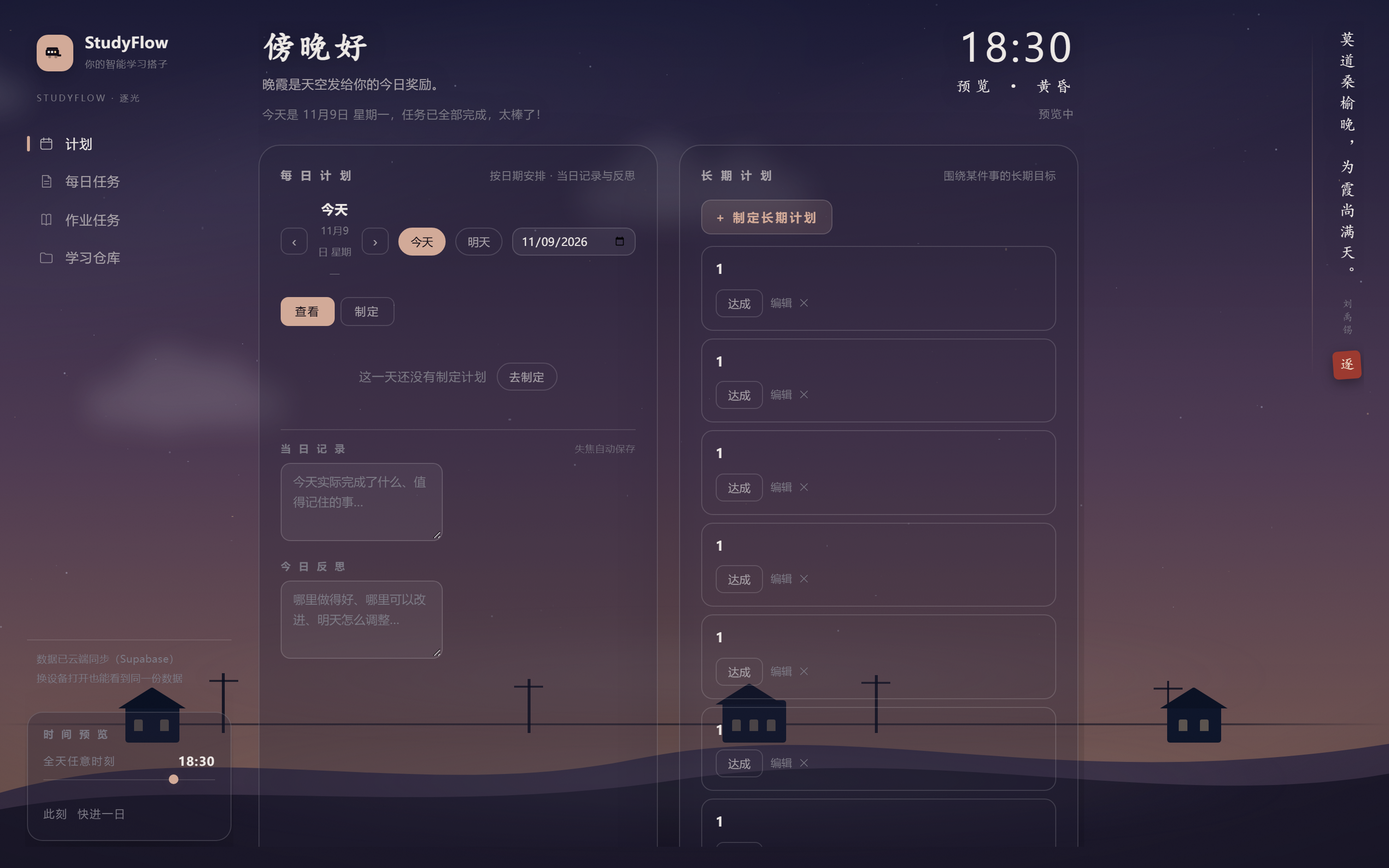
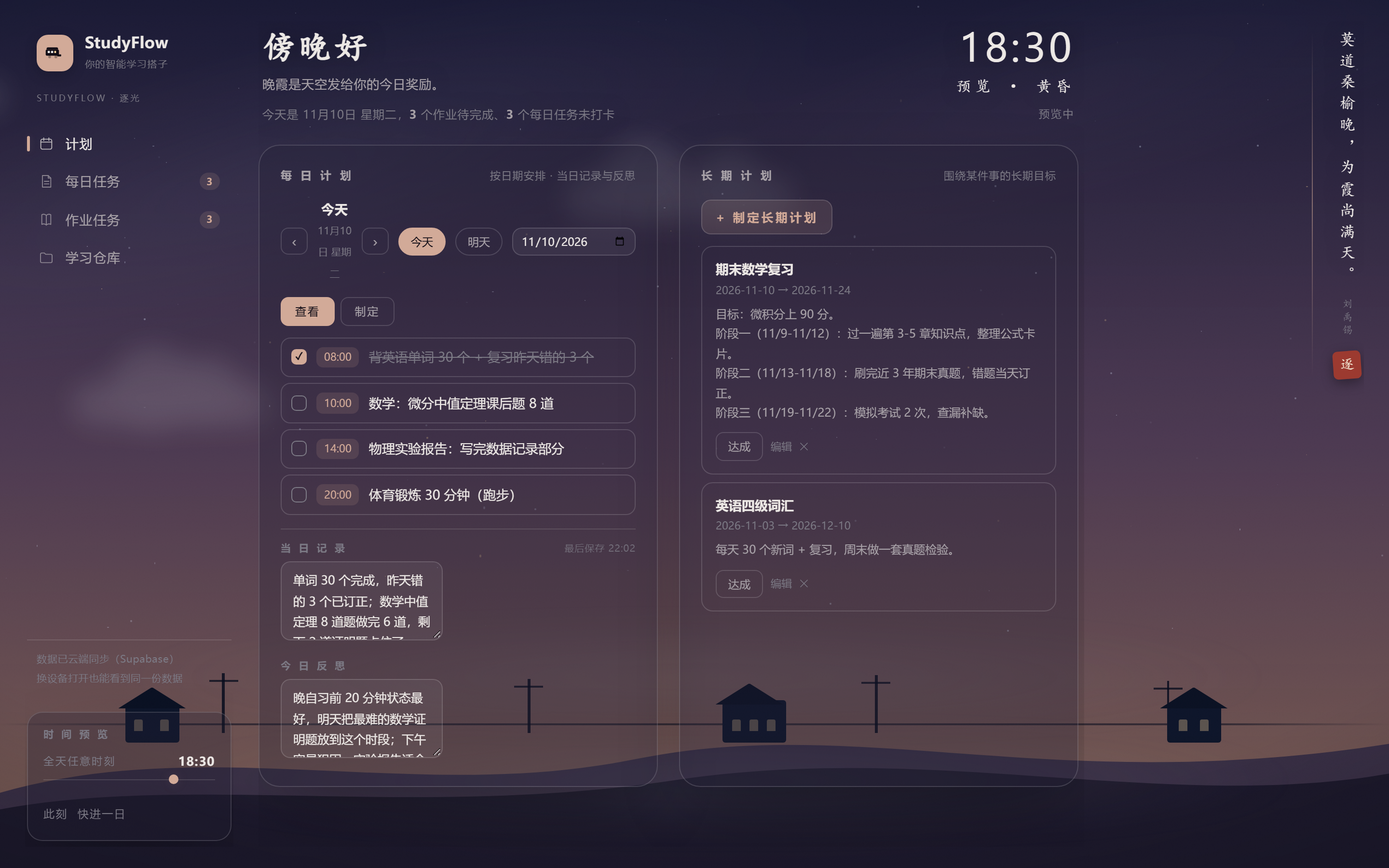
docs: v1.2 制定/查看双模式 + 当日记录反思开发日志与截图（修正被污染的初版截图）

diff --git a/docs/DEVLOG.md b/docs/DEVLOG.md
@@ -19,6 +19,7 @@
 | v0.10 | 计划页重做：每日详细计划 + 长期计划 | [计划页](screenshots/v0.10-plan.png) |
 | v1.0 | 电影感换肤：逐光场景层（调色板插值/天体轨道/列车）+ 右栏统计 | [夜晚](screenshots/v1.0-night.png) · [黎明](screenshots/v1.0-dawn.png) · [白昼](screenshots/v1.0-day.png) · [黄昏](screenshots/v1.0-dusk.png) |
 | v1.1 | 右栏精简：去掉今日打卡与近 7 天记录，只留时段诗句与印章 | [计划页](screenshots/v1.1-plan.png) |
+| v1.2 | 计划页分制定/查看双模式；每日计划按日期绑定当日记录与反思 | [查看模式](screenshots/v1.2-plan.png) · [制定模式](screenshots/v1.2-plan-edit.png) |
 
 ---
 
@@ -226,6 +227,25 @@
 - 同步清理 globals.css 中这些模块独占的样式（stat/sdot/wk/bar 系列与 .hr，共 20 条规则）
 
 ![v1.1 计划页](screenshots/v1.1-plan.png)
+
+---
+
+## v1.2 — 制定与查看分离 · 当日记录与反思
+
+**动机**：计划页的"写计划"和"看计划"挤在同一界面，输入框永远占着视觉重心；而且每天执行完计划后，缺一个按日期复盘的地方。
+
+**改动**：
+- **制定/查看双模式**：每日计划卡片内新增「查看 / 制定」切换，默认查看模式——干净的计划呈现（可勾选完成），不摆输入框；切到「制定」才出现添加行与删除按钮。空日期显示「这一天还没有制定计划 → 去制定」引导
+- **当日记录 + 今日反思**：查看模式下每个日期自带两栏书写区（新表 `day_notes`，与每日计划同日期键），失焦自动保存并显示保存时间；清空内容即删除该日记录；切换日期自动跟随
+- **长期计划表单折叠**：默认只呈现计划卡片，点「+ 制定长期计划」才展开表单，添加/收起后自动收回
+- **修复**：`DayNoteEditor` 草稿用 `useState` 初始化后不随外部更新（云端同步到达时会显示过期内容），补 `useEffect` 按 `note.updatedAt` 重置；首迁判空条件纳入 `dayNotes`
+- **容错**：`day_notes` 是新增表，未重跑建表 SQL 时拉取/推送仅告警不中断（其余表同步不受影响）
+
+**注意**：本版本需要**再跑一次 `docs/supabase-setup.sql`**（幂等，新增 `day_notes` 表与策略），否则记录与反思只保存在本地。
+
+| 查看模式（默认） | 制定模式 |
+|---|---|
+| ![v1.2 查看模式](screenshots/v1.2-plan.png) | ![v1.2 制定模式](screenshots/v1.2-plan-edit.png) |
 
 ---
 

diff --git a/README.md b/README.md
@@ -12,7 +12,8 @@
 
 ## ✨ 功能
 
-- **计划制定**：📅 每日计划——按日期写下详细安排（可带时段、完成勾选，今天/明天/任意天自由切换）；🎯 长期计划——围绕某件事的目标，标题+起止日期+阶段内容，可标记达成
+- **计划制定**：📅 每日计划——按日期写下详细安排（可带时段、完成勾选，今天/明天/任意天自由切换）；🎯 长期计划——围绕某件事的目标，标题+起止日期+阶段内容，可标记达成；制定/查看双模式分离，默认干净呈现
+- **当日记录与反思**：每个日期的计划下方可写当日记录 + 今日反思，失焦自动保存，按日期留痕可回溯
 - **任务分类**：🔁 每日任务（固定每天做，一次添加天天打卡）＋ 📝 作业任务（按截止日期管理），侧边栏各自独立成页
 - **每日打卡（与任务同页）**：今天做没做都要记录——没做必填反思，完成也能写心得 + **自填用时**（分钟）；14 天日期记录表 + 连续打卡天数
 - **任务附件**：作业内容（文本）、提交网址、文件（PDF 等）直接挂在任务上，云端存储随取随用
@@ -61,6 +62,7 @@ git checkout v0.8   # 任务分类 + 打卡反馈 + 任务附件
 git checkout v0.9   # 计划汇总专栏（已被 v0.10 取代）
 git checkout v0.10  # 计划页：每日详细计划 + 长期计划
 git checkout v1.0   # 电影感换肤：逐光主题
-git checkout v1.1   # 右栏精简：只留诗句与印章（当前）
+git checkout v1.1   # 右栏精简：只留诗句与印章
+git checkout v1.2   # 计划页制定/查看双模式 + 当日记录与反思（当前）
 npm run dev
 ```
